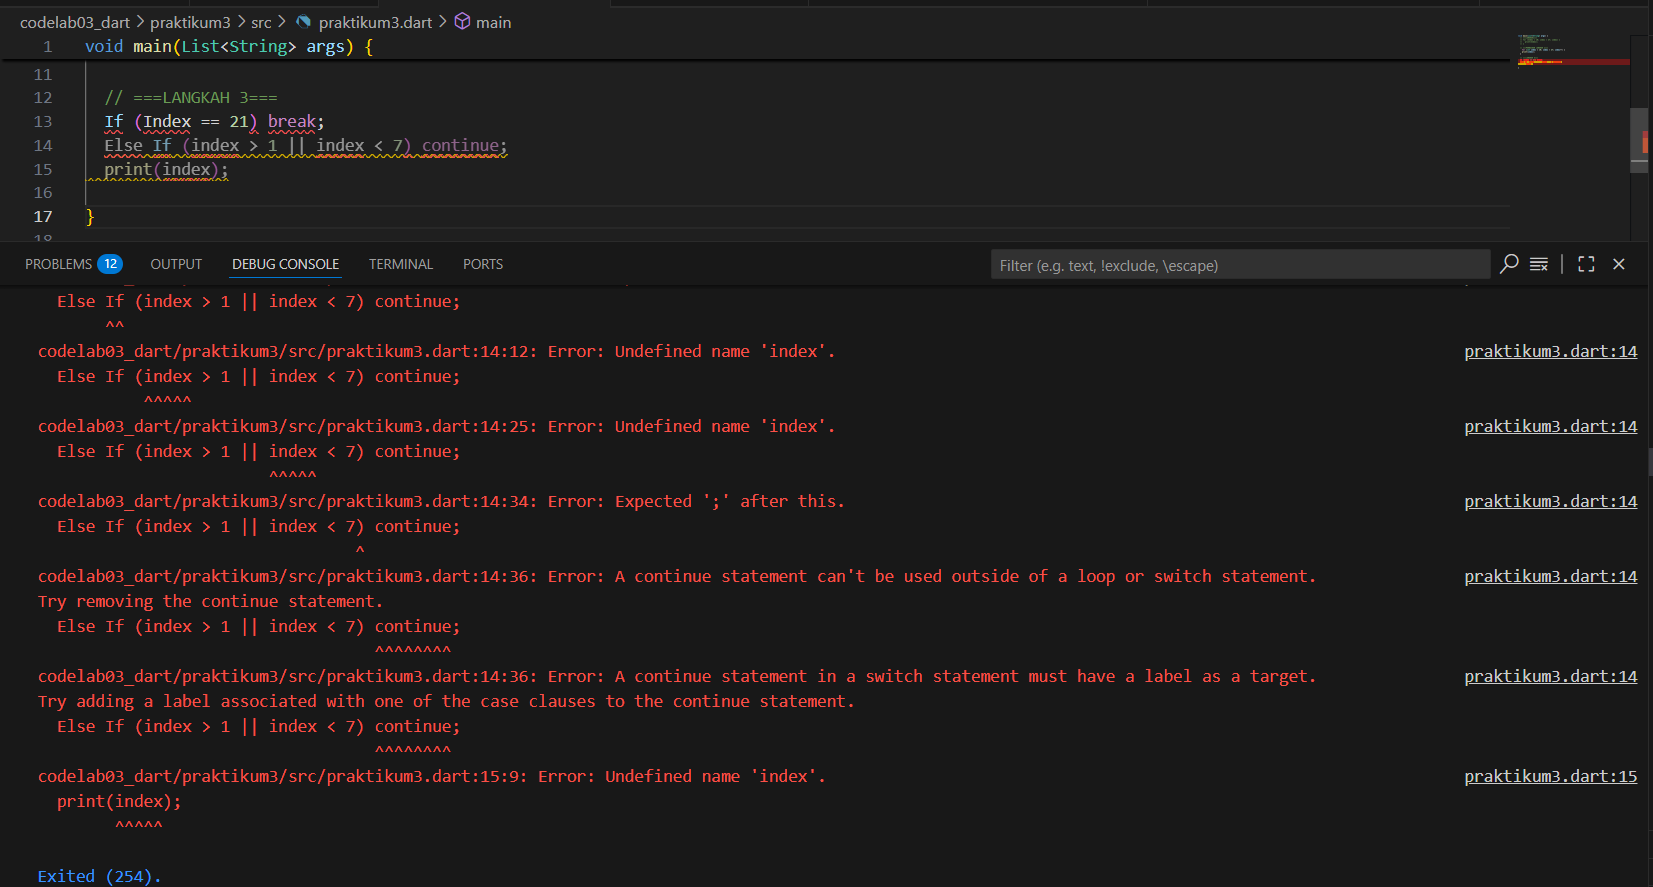
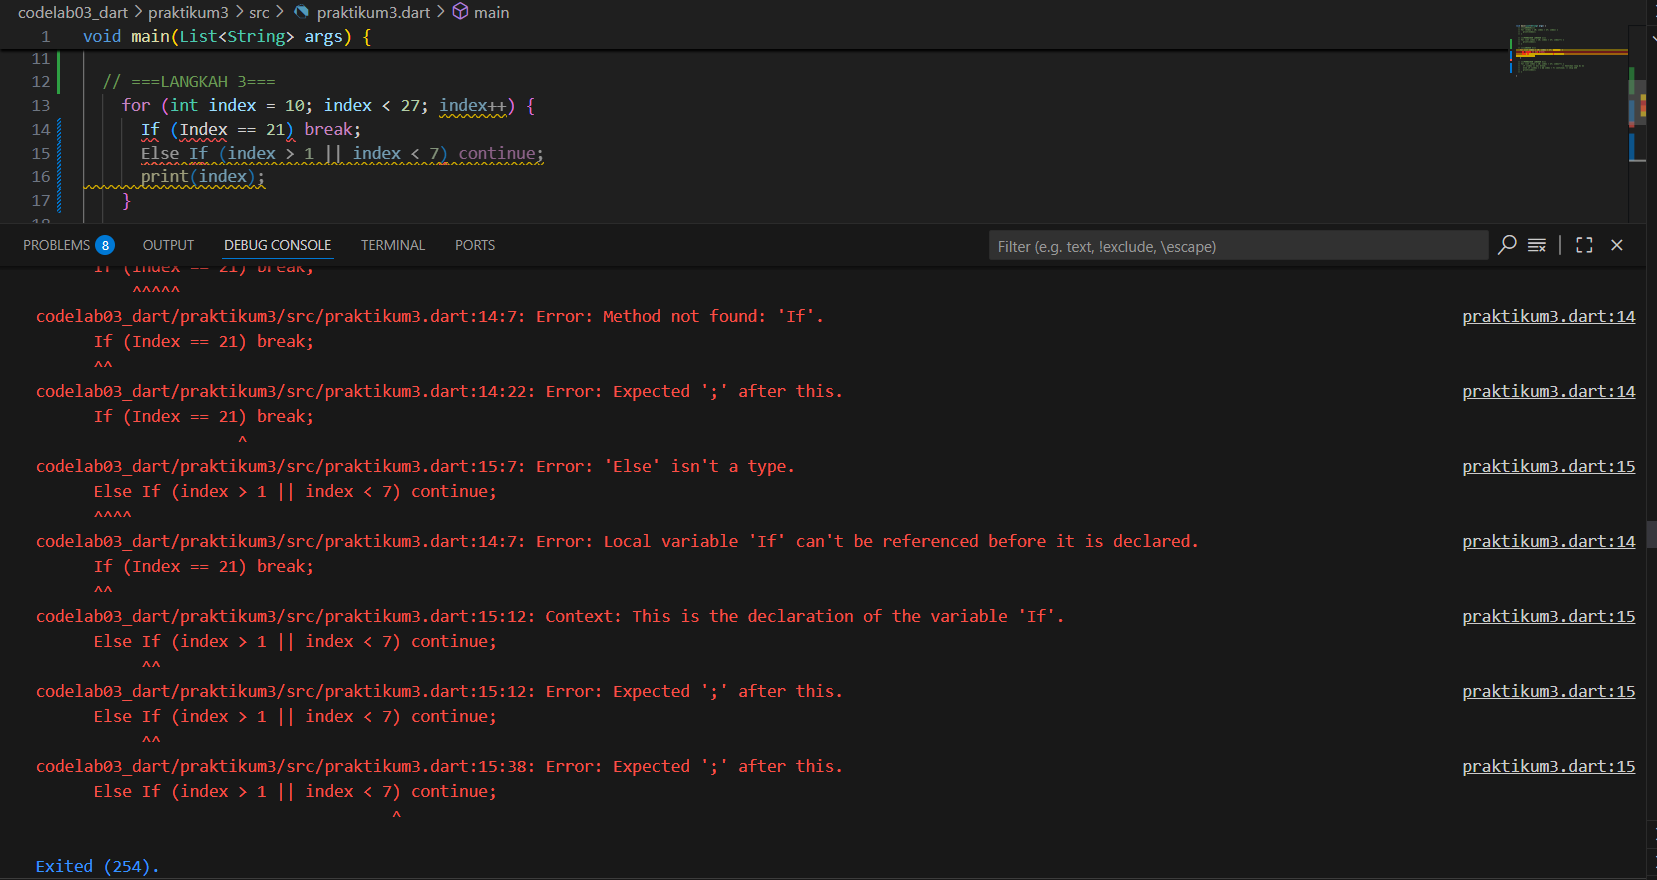
Praktikum 3: Menerapkan Perulangan "for" dan "break-continue"

diff --git a/codelab03_dart/praktikum3/src/praktikum3.dart b/codelab03_dart/praktikum3/src/praktikum3.dart
@@ -5,19 +5,21 @@ void main(List<String> args) {
   // }
 
   // ===PERBAIKAN LANGKAH 1===
-    for (int index = 10; index < 27; index++) {
-    print(index);
-  }
+  // for (int index = 10; index < 27; index++) {
+  //   print(index);
+  // }
 
   // ===LANGKAH 3===
-  // If (Index == 21) break;
-  // Else If (index > 1 || index < 7) continue;
-  // print(index);
+  // for (int index = 10; index < 27; index++) {
+  //   If (Index == 21) break;
+  //   Else If (index > 1 || index < 7) continue;
+  //   print(index);
+  // }
 
   // ===PERBAIKAN LANGKAH 3===
   for (int index = 10; index < 27; index++) {
-    if (index == 21) break;                // hentikan loop di 21
-    else if (index > 1 && index < 7) continue; // skip 2–6
+    if (index == 21) break;
+    else if (index > 1 && index < 7) continue;
     print(index);
   }
 
